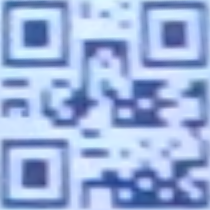
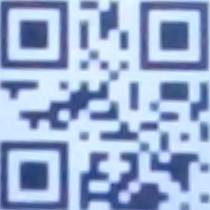
made the qr code printout work

diff --git a/src/scanner.py b/src/scanner.py
@@ -3,6 +3,8 @@ import numpy as np
 from pyzbar.pyzbar import decode
 
 dectedqr = False
+qrtries = 0
+Matrix = [[0 for x in range(21)] for y in range(21)] 
 
 def decoder(image):
     gray_img = cv2.cvtColor(image,0)
@@ -22,7 +24,7 @@ cap = cv2.VideoCapture(0)
 while True:
     ret, frame = cap.read()
     dectedqr, point = decoder(frame)
-    if dectedqr == True:
+    if dectedqr == True and qrtries == 20:
         p1 = [point[0][0], point[0][1]]
         p3 = [point[1][0], point[1][1]]
         p4 = [point[2][0], point[2][1]]
@@ -38,8 +40,33 @@ while True:
 
         cv2.imwrite("QRCODE.png", img_output)
         break
+    if dectedqr == True:
+        qrtries += 1
     else:
         cv2.imshow("Image", frame)
         code = cv2.waitKey(10)
     if code == ord('q'):
         break
+
+for y in range(21):
+  for x in range(21):
+    temp = img_output[y*10:y*10+10, x*10:x*10+10]
+    average = temp.mean(axis=0).mean(axis=0)
+    if (average[0] + average[1] + average[2])/3 >= 200:
+      Matrix[y][x] = 0
+    else:
+      Matrix[y][x] = 1
+
+def printMatix(matrix):
+    out = ""
+    for i in range(21):
+        for x in matrix[i]:
+            if x == 1:
+                out += "██"
+            else:
+                out += "  "
+        out += "\n"
+    out += ""
+    return out
+
+print(printMatix(Matrix))

diff --git a/src/testing.py b/src/testing.py
@@ -23,11 +23,23 @@ Matrix = [[0 for x in range(21)] for y in range(21)]
 
 for y in range(21):
   for x in range(21):
-    temp = img[y:10, x:10]
-    cv2.imshow("test", temp)
-    cv2.waitKey(0)
+    temp = img[y*10:y*10+10, x*10:x*10+10]
     average = temp.mean(axis=0).mean(axis=0)
-    print(average)
+    if (average[0] + average[1] + average[2])/3 >= 200:
+      Matrix[y][x] = 0
+    else:
+      Matrix[y][x] = 1
 
+def printMatix(matrix):
+    out = ""
+    for i in range(21):
+        for x in matrix[i]:
+            if x == 1:
+                out += "██"
+            else:
+                out += "  "
+        out += "\n"
+    out += ""
+    return out
 
-
+print(printMatix(Matrix))
